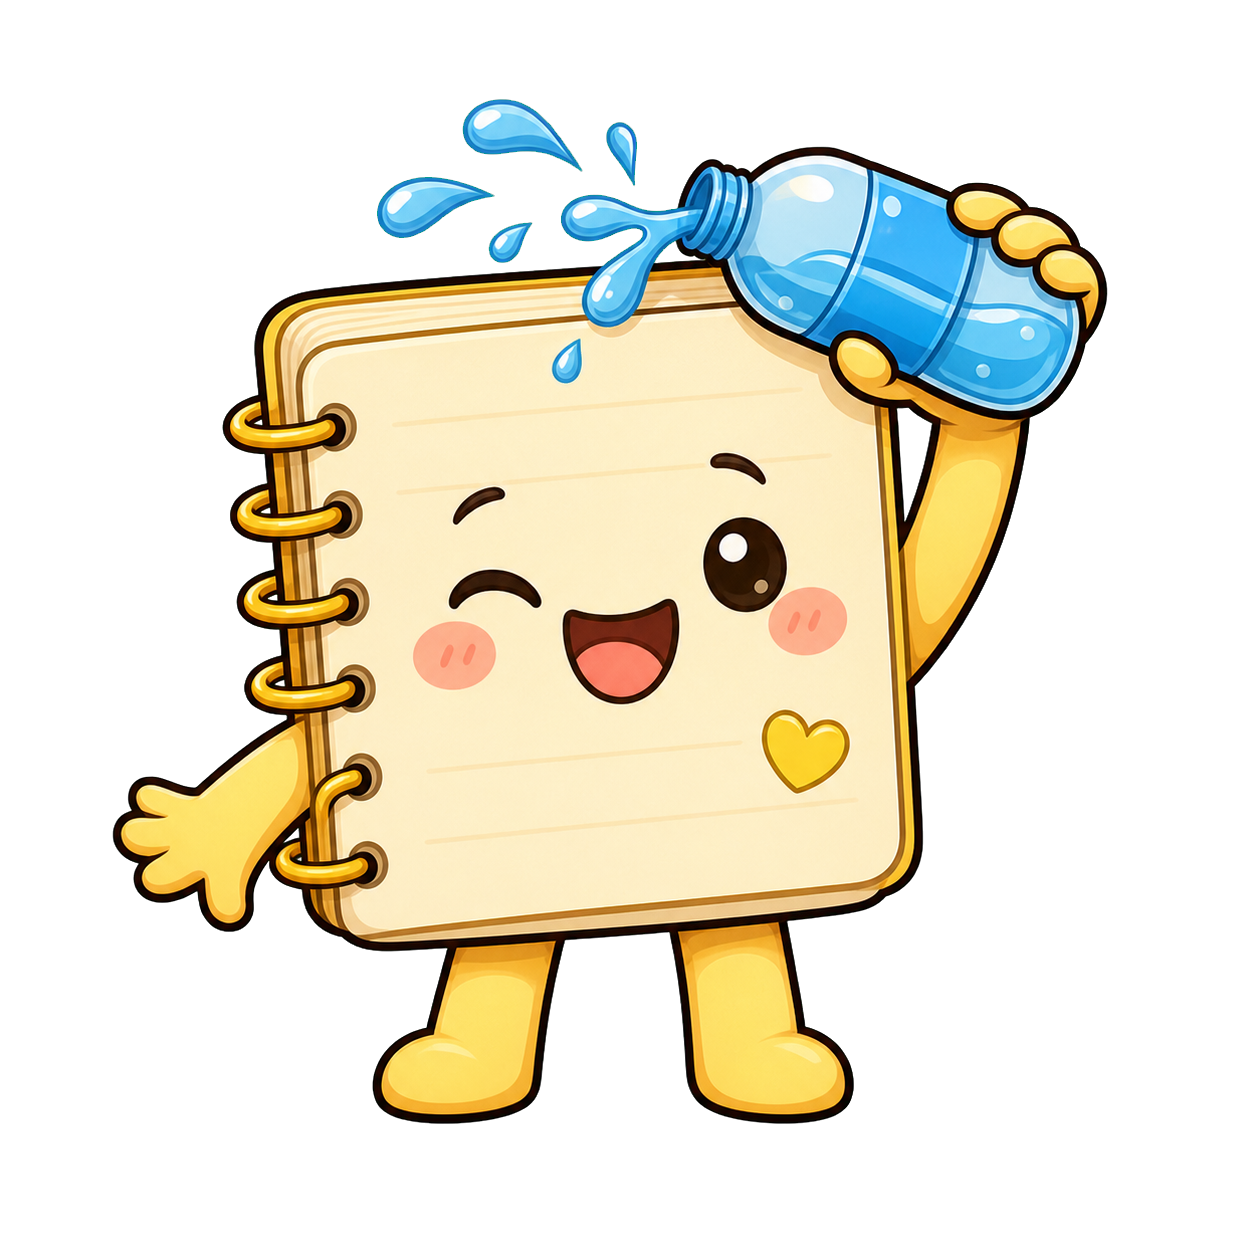
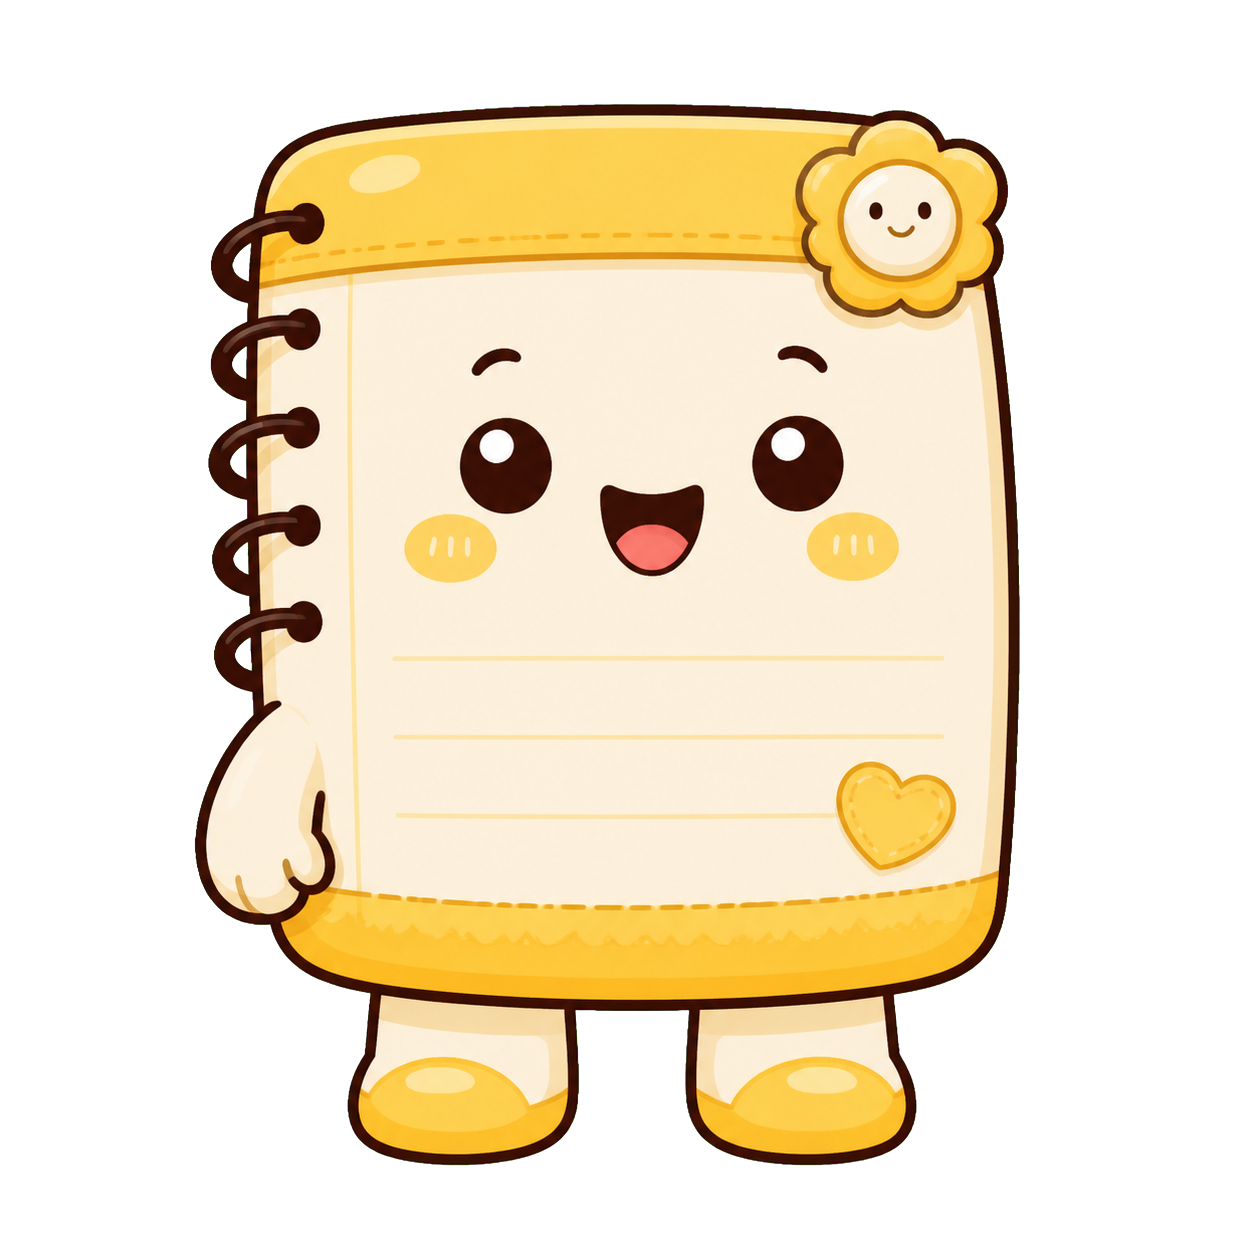
Refine hydration cup animation

diff --git a/meme-pop/content.css b/meme-pop/content.css
@@ -39,6 +39,7 @@
   position: absolute !important;
   inset: 0 !important;
   z-index: 3 !important;
+  display: none !important;
   overflow: hidden !important;
   opacity: 0 !important;
   pointer-events: none !important;
@@ -337,35 +338,43 @@
 #memepop-root.memepop-theme-hydration .memepop-hydration-arm {
   position: absolute !important;
   z-index: 3 !important;
-  top: 139px !important;
-  right: 15px !important;
+  top: 151px !important;
+  right: 36px !important;
   display: block !important;
-  width: 92px !important;
-  height: 25px !important;
-  border: 5px solid #3a2b2a !important;
+  width: 86px !important;
+  height: 23px !important;
+  border: 4px solid #3a2b2a !important;
   border-left: 0 !important;
   border-radius: 999px !important;
   background: linear-gradient(90deg, #ffe66f, #ffd253) !important;
-  transform-origin: 8% 50% !important;
-  animation: memepop-offer-arm 1650ms ease-in-out 720ms infinite !important;
+  transform: rotate(-4deg) scaleX(0.9) !important;
+  transform-origin: 10% 50% !important;
+}
+
+#memepop-root.memepop-theme-hydration.memepop-offering .memepop-hydration-arm {
+  animation: memepop-offer-arm 1750ms ease-in-out 520ms infinite !important;
 }
 
 #memepop-root.memepop-theme-hydration .memepop-hydration-cup {
   position: absolute !important;
-  z-index: 4 !important;
-  top: 104px !important;
-  right: -18px !important;
+  z-index: 6 !important;
+  top: 112px !important;
+  right: -4px !important;
   display: block !important;
-  width: 64px !important;
-  height: 76px !important;
-  border: 5px solid #3a2b2a !important;
+  width: 56px !important;
+  height: 68px !important;
+  border: 4px solid #3a2b2a !important;
   border-radius: 12px 12px 18px 18px !important;
   background:
-    linear-gradient(180deg, rgba(255, 255, 255, 0.84) 0 18%, rgba(113, 218, 255, 0.74) 19% 100%),
+    linear-gradient(180deg, rgba(255, 255, 255, 0.96) 0 18%, rgba(113, 218, 255, 0.94) 19% 100%),
     #8de1ff !important;
   box-shadow: inset 0 -10px 0 rgba(18, 146, 223, 0.18), 0 10px 14px rgba(18, 146, 223, 0.18) !important;
+  transform: rotate(-4deg) scale(0.96) !important;
   transform-origin: 25% 78% !important;
-  animation: memepop-offer-cup 1650ms ease-in-out 720ms infinite !important;
+}
+
+#memepop-root.memepop-theme-hydration.memepop-offering .memepop-hydration-cup {
+  animation: memepop-offer-cup 1750ms ease-in-out 520ms infinite !important;
 }
 
 #memepop-root.memepop-theme-hydration .memepop-hydration-cup::before {
@@ -373,20 +382,20 @@
   position: absolute !important;
   left: 9px !important;
   right: 9px !important;
-  top: 16px !important;
+  top: 15px !important;
   height: 8px !important;
   border-radius: 999px !important;
-  background: rgba(255, 255, 255, 0.84) !important;
+  background: rgba(255, 255, 255, 0.9) !important;
 }
 
 #memepop-root.memepop-theme-hydration .memepop-hydration-cup::after {
   content: "" !important;
   position: absolute !important;
-  top: 22px !important;
-  right: -23px !important;
-  width: 24px !important;
-  height: 28px !important;
-  border: 5px solid #3a2b2a !important;
+  top: 21px !important;
+  right: -20px !important;
+  width: 21px !important;
+  height: 25px !important;
+  border: 4px solid #3a2b2a !important;
   border-left: 0 !important;
   border-radius: 0 999px 999px 0 !important;
   background: transparent !important;
@@ -654,25 +663,28 @@
 @keyframes memepop-offer-arm {
   0%,
   100% {
-    transform: translate3d(0, 0, 0) rotate(-8deg) scaleX(0.92);
+    transform: translate3d(0, 0, 0) rotate(-4deg) scaleX(0.9);
   }
   42%,
   66% {
-    transform: translate3d(26px, -8px, 0) rotate(8deg) scaleX(1.08);
+    transform: translate3d(18px, -6px, 0) rotate(4deg) scaleX(1.08);
+  }
+  82% {
+    transform: translate3d(7px, -2px, 0) rotate(-2deg) scaleX(0.98);
   }
 }
 
 @keyframes memepop-offer-cup {
   0%,
   100% {
-    transform: translate3d(0, 0, 0) rotate(-7deg) scale(0.95);
+    transform: translate3d(0, 0, 0) rotate(-4deg) scale(0.96);
   }
   42%,
   66% {
-    transform: translate3d(38px, -14px, 0) rotate(9deg) scale(1.16);
+    transform: translate3d(20px, -10px, 0) rotate(-11deg) scale(1.06);
   }
-  74% {
-    transform: translate3d(28px, -8px, 0) rotate(-3deg) scale(1.08);
+  82% {
+    transform: translate3d(8px, -4px, 0) rotate(3deg) scale(1);
   }
 }
 
@@ -802,18 +814,18 @@
   }
 
   #memepop-root.memepop-theme-hydration .memepop-hydration-arm {
-    top: 104px !important;
-    right: 26px !important;
-    width: 70px !important;
+    top: 109px !important;
+    right: 42px !important;
+    width: 58px !important;
     height: 20px !important;
     border-width: 4px !important;
   }
 
   #memepop-root.memepop-theme-hydration .memepop-hydration-cup {
-    top: 76px !important;
-    right: -4px !important;
-    width: 50px !important;
-    height: 60px !important;
+    top: 82px !important;
+    right: 7px !important;
+    width: 44px !important;
+    height: 54px !important;
     border-width: 4px !important;
   }
 

diff --git a/meme-pop/content.ts b/meme-pop/content.ts
@@ -199,24 +199,25 @@ function updateThemeClass(): void {
     "memepop-theme-gaming",
     "memepop-theme-coding",
     "memepop-theme-hydration",
+    "memepop-offering",
     "memepop-splashing"
   );
   rootElement.classList.add(`memepop-theme-${appState.settings.theme}`);
   updateCharacterImage();
 
   if (isHydrationTheme()) {
-    restartHydrationSplash();
+    restartHydrationOffer();
   }
 }
 
-function restartHydrationSplash(): void {
+function restartHydrationOffer(): void {
   if (!rootElement || !isHydrationTheme()) {
     return;
   }
 
-  rootElement.classList.remove("memepop-splashing");
+  rootElement.classList.remove("memepop-offering");
   void rootElement.offsetWidth;
-  rootElement.classList.add("memepop-splashing");
+  rootElement.classList.add("memepop-offering");
 }
 
 function updateCountdown(): void {
@@ -427,7 +428,7 @@ function createMemePop(message?: string): HTMLElement {
     }
 
     setMessage();
-    restartHydrationSplash();
+    restartHydrationOffer();
     playTone("click");
     resetAutoHide(true);
     chrome.runtime.sendMessage({ type: "MEMEPOP_CHARACTER_CLICKED" }, (response?: { awarded?: boolean; coins?: number }) => {
@@ -496,7 +497,7 @@ function showMemePop(force: boolean, message?: string): boolean {
   if (rootElement) {
     updateThemeClass();
     setMessage(message);
-    restartHydrationSplash();
+    restartHydrationOffer();
     centerAndRememberPosition();
     resetAutoHide(true);
     return true;
@@ -547,7 +548,7 @@ chrome.storage.onChanged.addListener((changes: Record<string, { newValue?: Parti
 
   if (rootElement && previousTheme !== appState.settings.theme) {
     setMessage();
-    restartHydrationSplash();
+    restartHydrationOffer();
   }
 
   if (MemePop.isQuiet(appState)) {

diff --git a/meme-pop/popup.css b/meme-pop/popup.css
@@ -1,7 +1,7 @@
 :root {
   color-scheme: light;
   font-family: Inter, ui-sans-serif, system-ui, -apple-system, BlinkMacSystemFont, "Segoe UI", sans-serif;
-  font-size: 13px;
+  font-size: 14px;
   color: #2f3442;
   background: #fff6e9;
 }
@@ -175,13 +175,22 @@ h2 {
 
 select {
   width: 100%;
-  min-height: 40px;
-  padding: 0 12px;
+  min-height: 46px;
+  padding: 0 14px;
   border: 1px solid rgba(38, 49, 63, 0.14);
   border-radius: 14px;
   color: #26313f;
   background: #ffffff;
+  font-size: 14px;
+  font-weight: 700;
+  line-height: 1.35;
   outline: none;
+}
+
+select option {
+  font-size: 14px;
+  line-height: 1.6;
+  padding: 8px 12px;
 }
 
 input[type="checkbox"] {

diff --git a/meme-pop/options.css b/meme-pop/options.css
@@ -110,6 +110,15 @@ select {
   border: 1px solid rgba(38, 49, 63, 0.14);
   border-radius: 14px;
   background: #ffffff;
+  font-size: 16px;
+  font-weight: 700;
+  line-height: 1.35;
+}
+
+select option {
+  font-size: 16px;
+  line-height: 1.6;
+  padding: 8px 12px;
 }
 
 input[type="checkbox"] {